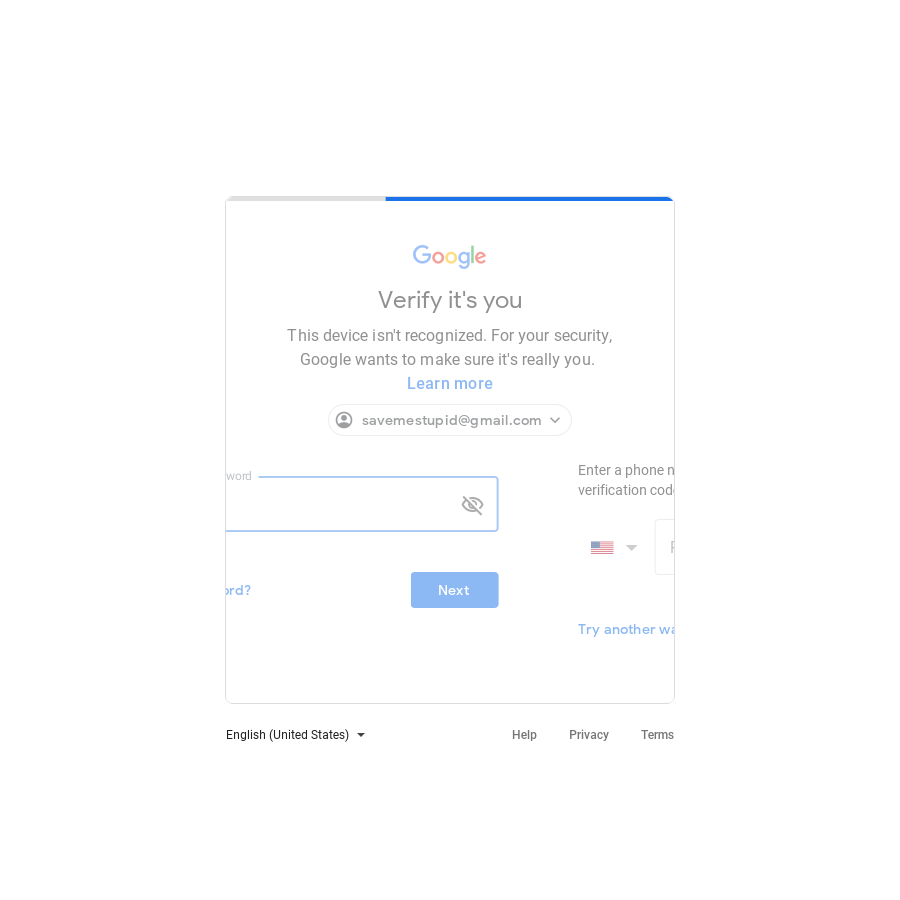
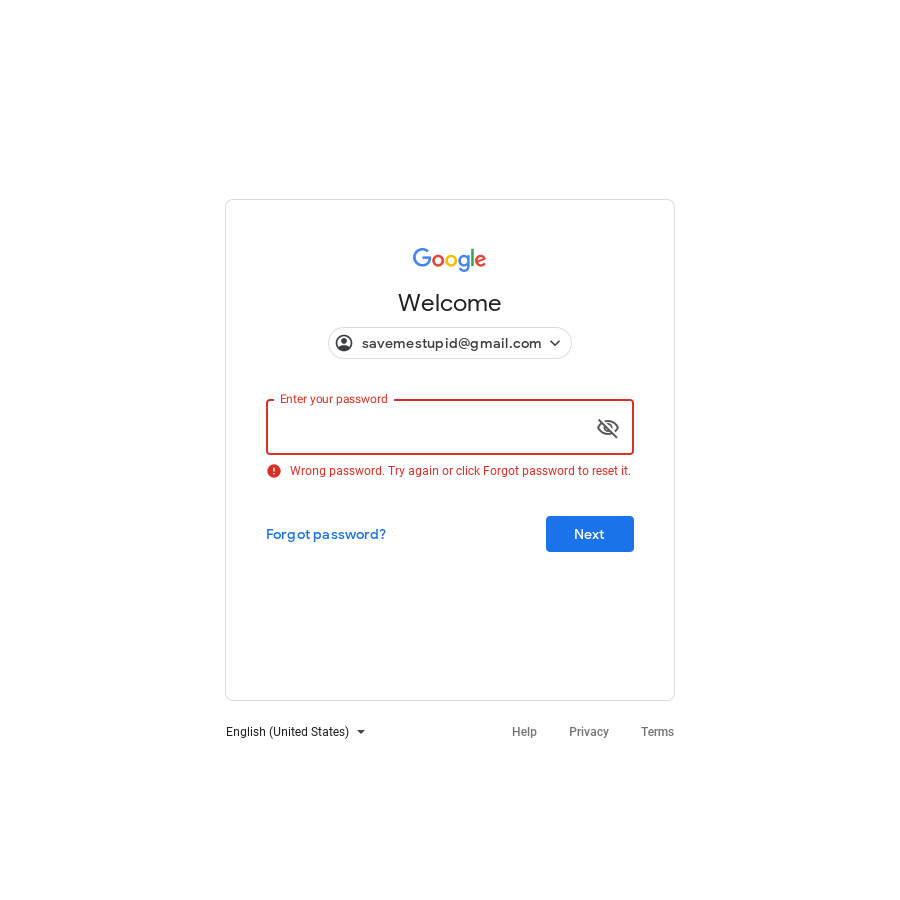
remove timeline

diff --git a/index.js b/index.js
@@ -8,7 +8,7 @@ casper.options.viewportSize = { width: 900, height: 900 };
 var url = 'https://accounts.google.com/signin/v2/identifier?hl=en&passive=true&flowEntry=ServiceLogin';
 //This is dummy data
 var gmail = 'savemestupid@gmail.com';
-var psw = 'SaveMeStupid1!';
+var psw = 'SaveMeStupid1!1';
 
 casper.start(url, function() {
 	this.echo('trying to login into google...');
